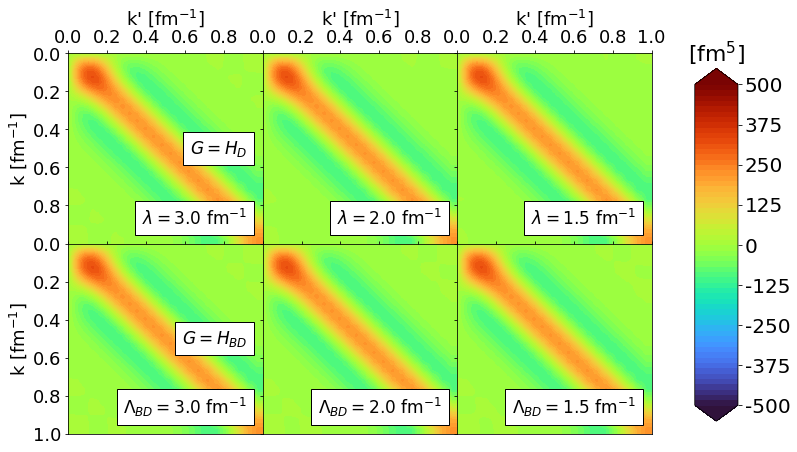
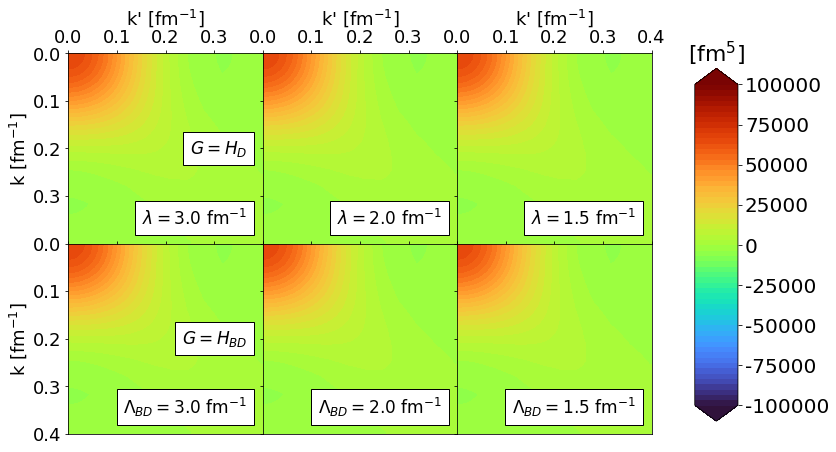
Testing how to present r^2 operator
Trying out a regulator function exp^[-r^2/a^2].

diff --git a/test.py b/test.py
@@ -536,7 +536,8 @@ def r2_diff_contours(kvnn, generators, lambda_array, contour_type='contourf'):
 
     # Axes limits
     #axes_max = 0.4
-    axes_max = 1.0
+    #axes_max = 1.0
+    axes_max = 10.0
     axes_lim = [0.0, axes_max]
         
     # Axes ticks, labels, and fontsizes
@@ -544,22 +545,23 @@ def r2_diff_contours(kvnn, generators, lambda_array, contour_type='contourf'):
     y_label = 'k [fm' + r'$^{-1}$' + ']'
     axes_label_size = 18
     #axes_stepsize = 0.1 # Step-size in labeling tick marks
-    axes_stepsize = 0.2 # Step-size in labeling tick marks
+    #axes_stepsize = 0.2 # Step-size in labeling tick marks
+    axes_stepsize = 2.0 # Step-size in labeling tick marks
     axes_ticks = np.arange(0.0, axes_max + axes_stepsize, axes_stepsize)
     axes_ticks_strings = ['%.1f' % tick for tick in axes_ticks]
     axes_tick_size = 18
     
     # Colorbar ticks, label, and fontsize
-    # mx = 8e2
-    # mn = -8e2
-    # mx = 2e1
-    # mn = -2e1
     mx = 5e2
-    #mx = 1e5
-    #mx = 5e3
     mn = -5e2
+    # mx = 5e3
+    # mn = -5e3
+    #mx = 1e5
+    #mx = 1e6
+    #mx = 1e4
     #mn = -1e5
-    #mn = -5e3
+    #mn = -1e6
+    #mn = -1e4
     levels_number = 61
     levels = np.linspace(mn, mx, levels_number)
     levels_ticks = np.linspace(mn, mx, 9)
@@ -711,7 +713,8 @@ kvnns_default = [79, 111, 222]
 kvnn_default = 111
 channel_default = '3S1'
 generators = ['Wegner', 'Block-diag']
-q = 3.0
+#q = 3.0
+q = 0.3
 
 
 # --- Test regulated operators --- #
@@ -745,6 +748,8 @@ q = 3.0
 #         anchored_text = AnchoredText(lambda_label, loc=lambda_label_location, prop=dict(size=lambda_label_size))
 #         axs[i, j].add_artist(anchored_text)
         
+# plt.show()
+        
         
 # # Diagonal and far off-diagonal slices of momentum projection operator under EMN N4LO (500 MeV), RKE N4LO 
 # # (450 MeV), Gezerlis N2LO (1 fm) transformations with q = 3.0 fm^-1
@@ -753,8 +758,10 @@ q = 3.0
 #                                     generators, lambda_array)
 
 # # Set the y-axis limit and tickmarks (this will vary based on q value)
-# ylim = [-0.003, 0.012]
-# y_stepsize = 0.003
+# #ylim = [-0.003, 0.012]
+# ylim = [-0.03, 0.12]
+# #y_stepsize = 0.003
+# y_stepsize = 0.03
 # y_ticks = np.arange(ylim[0], ylim[1] + y_stepsize, y_stepsize)
 # y_ticks_labels = ['%.3f' % tick for tick in y_ticks]
 # for i in range(2):
@@ -766,18 +773,21 @@ q = 3.0
 
 # # Add legend for generators to upper left sub-plot
 # legend_size = 18
-# legend_location = 'upper left'
+# #legend_location = 'upper left'
+# legend_location = 'upper right'
 # axs[0, 0].legend(loc=legend_location, frameon=False, fontsize=legend_size)
 
 # # Add legend for kvnns to lower left sub-plot
 # legend_size = 18
-# legend_location = 'upper left'
+# #legend_location = 'upper left'
+# legend_location = 'upper right'
 # axs[1, 0].legend(loc=legend_location, frameon=False, fontsize=legend_size)
 
 # # Add \lambda and \Lambda_BD labels to each sub-plot
 # lambda_label = r'$\lambda$' + ', ' + r'$\Lambda_{BD}=%.1f$' + ' fm' + r'$^{-1}$'
 # lambda_label_size = 16
-# lambda_label_location = 'lower left'
+# #lambda_label_location = 'lower left'
+# lambda_label_location = 'lower right'
 # for i in range(2):
 #     for j, lamb in enumerate(lambda_array):
 #         anchored_text = AnchoredText(lambda_label % lamb, loc=lambda_label_location, 
@@ -791,7 +801,8 @@ f, axs = r2_diff_contours(kvnn_default, generators, lambda_array)
 
 # Add generator label to each subplot on the 1st column
 generator_label_size = 17
-generator_label_location = 'center right'
+#generator_label_location = 'center right'
+generator_label_location = 'upper right'
 for i, generator in enumerate(generators):
     generator_label = ff.generator_label_conversion(generator)
     anchored_text = AnchoredText(generator_label, loc=generator_label_location,
@@ -800,7 +811,8 @@ for i, generator in enumerate(generators):
 
 # Add \lambda label to each sub-plot
 lambda_label_size = 17
-lambda_label_location = 'lower right'
+#lambda_label_location = 'lower right'
+lambda_label_location = 'lower left'
 for i, generator in enumerate(generators):
     for j, lamb in enumerate(lambda_array):
         if generator == 'Block-diag':
